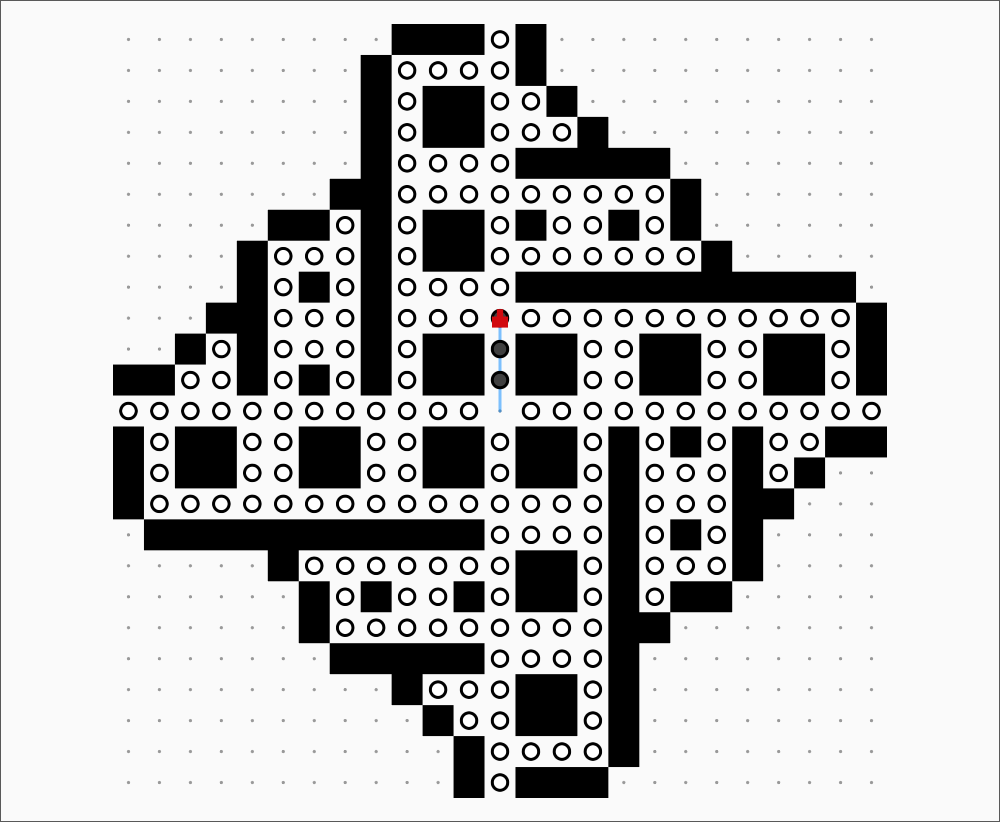
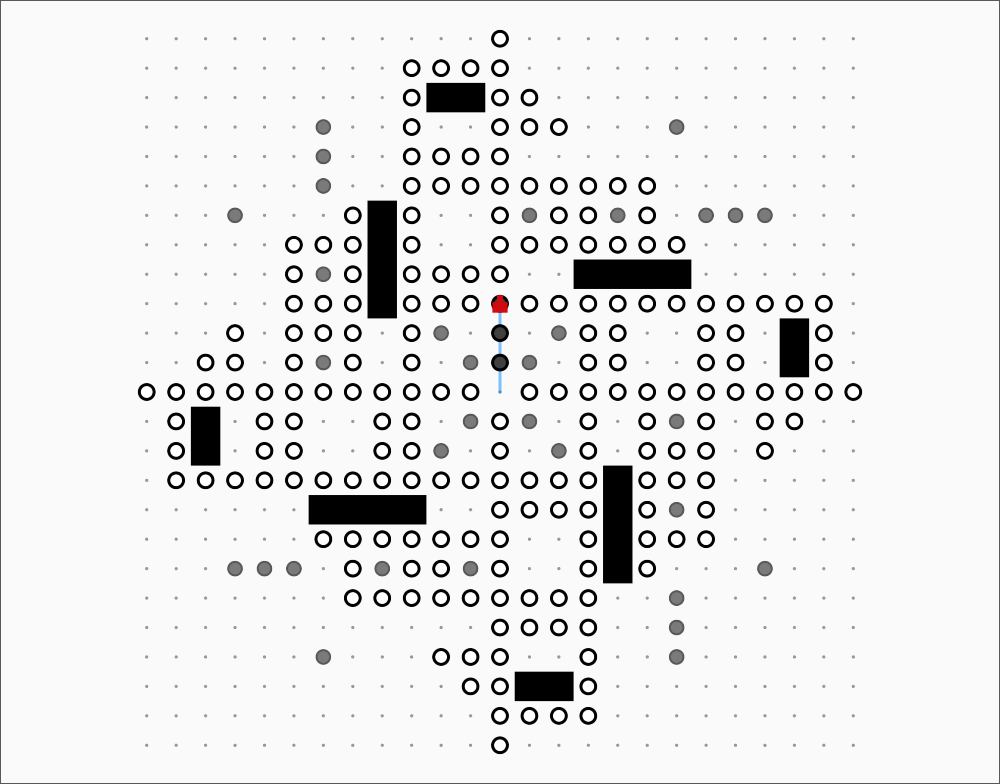
docs: refresh approved course screenshots in both languages
Recapture the same six puzzles and Modern/Classic comparison in the native app. Update Folding shells captions and distinguish current source builds from the 0.3.8 release.

AI-model: GPT-6

Changed region(s): [[0.093, 0.0306, 0.899, 0.9796]]

diff --git a/README.md b/README.md
@@ -20,12 +20,14 @@ and keep making your solution smaller.
 Start with **10 introductory lessons**, then explore **20 advanced challenges** in
 wall-assisted counting, parameter swaps, recursive returns, mutual recursion and
 composition. All **30 original puzzles** have English, Chinese and Japanese goals
-and two optional hints, with reference programs verified by the native and HOJ engines.
+and two optional hints. Reference programs are verified by the native engine;
+H language behavior is also audited against the HOJ reference implementation.
 The default open-source edition also includes **1,769 community problems**, preserving
 their IDs, authors and byte limits. The **App Store edition contains only the 30 originals**.
 The course uses continuous **L01–L30** numbers: ten introductory lessons followed
 by twenty advanced challenges. Only the first two fit a direct sequence of commands.
-L07 “Turning rose” and L08 “Tandem lanterns” are newly designed symmetric, walled boards.
+L04–L06 introduce reusable patterns; L11–L22 explore open geometric compositions.
+Broken wall landmarks and trap motifs guide the route while leaving alternative traversals.
 Display numbers are separate from internal save IDs; retired records remain importable.
 
 ## Download for Mac
@@ -34,12 +36,16 @@ Display numbers are separate from internal save IDs; retired records remain impo
 — macOS 14+, Apple Silicon and Intel. Open the DMG and drag Herbert to Applications;
 no Xcode is needed. Includes all 1,799 problems.
 
+Screenshots below show the latest source revision. The redesigned course and button
+fixes are available in [main-branch CI build artifacts](https://github.com/hugogu/herbert/actions/workflows/ci.yml);
+the 0.3.8 release contains the earlier course layouts.
+
 This preview is ad-hoc signed and **not Apple notarized**. macOS may block its first
 launch; follow [Apple's instructions](https://support.apple.com/en-us/102445) for
 **System Settings → Privacy & Security → Open Anyway** if you trust the download.
 See [checksums, installation and build details](docs/macos-distribution.md).
 
-[Explore the original curriculum](docs/original-course.md) · [Design and community study](docs/advanced-course-design.md) · [App Store build and device testing](docs/app-store.md)
+[Explore the original curriculum](docs/original-course.md) · [Open geometry design](docs/open-course-design.zh-CN.md) · [Community study](docs/advanced-course-design.md) · [App Store build and device testing](docs/app-store.md)
 
 ![Herbert original course in the English Mac app: Vaulted mosaic](docs/screenshots/en/course/course-mosaic.png)
 
@@ -60,19 +66,19 @@ the selected board, ready to paste as one message.
 ## Small programs, intricate places
 
 The six-chapter [original course](docs/original-course.md) grows from a single `s` to
-layered recursive systems. Walls reveal rooms, folds and rotational units while
-constraining the route. These are three of the new challenges; click a board for its
+layered recursive systems. Partial walls and trap ribbons reveal folds and rotational
+units while keeping multiple approaches open. These are three challenges; click a board for its
 full game screen:
 
-| L18 · Hinged rosette | L24 · Snowmelt seal | L30 · Astral cathedral |
+| L18 · Folding shells | L24 · Snowmelt seal | L30 · Astral cathedral |
 | --- | --- | --- |
-| [![Hinged rosette board with four walled spiral arms](docs/screenshots/en/course/course-rosette-board.png)](docs/screenshots/en/course/course-rosette.png) | [![Snowmelt seal board with recursive folds and four trap caps](docs/screenshots/en/course/course-seal-board.png)](docs/screenshots/en/course/course-seal.png) | [![Astral cathedral board with branching square courtyards](docs/screenshots/en/course/course-cathedral-board.png)](docs/screenshots/en/course/course-cathedral.png) |
-| Recursive return · ≤ 29 bytes | Selective instruction expansion · ≤ 34 bytes | Chiral branching + composition · ≤ 56 bytes |
+| [![Folding shells board with four recursive hooks and broken wall landmarks](docs/screenshots/en/course/course-rosette-board.png)](docs/screenshots/en/course/course-rosette.png) | [![Snowmelt seal board with recursive folds, wall brackets and trap accents](docs/screenshots/en/course/course-seal-board.png)](docs/screenshots/en/course/course-seal.png) | [![Astral cathedral board with branching square courtyards](docs/screenshots/en/course/course-cathedral-board.png)](docs/screenshots/en/course/course-cathedral.png) |
+| Recursive return · ≤ 33 bytes | Selective instruction expansion · ≤ 34 bytes | Chiral branching + composition · ≤ 56 bytes |
 
 *These original puzzles and their screenshots are MIT licensed. Budgets are verified
 achievable, not proven minima. Our [community study and design notes](docs/advanced-course-design.md)
 explain the progression and the simple-loop shortcuts removed during design.
-The course is included in the Mac preview.*
+The redesigned course is available in the latest main-branch builds.*
 
 | L07 · Turning rose | L08 · Tandem lanterns |
 | --- | --- |

diff --git a/CHANGELOG.md b/CHANGELOG.md
@@ -5,10 +5,12 @@ save or API formats through documented migrations.
 
 ## Unreleased
 
+- Set explicit foreground colors for primary and secondary actions across iOS and macOS, including prompt copying, sharing and progress transfer. Shorten backup button labels to Export / Import in all three languages.
+
 - Redesign L11–L22 as distinct open geometric puzzles, with local wall stops, islands and trap accents instead of enclosing the reference route. Open L10 and retain the target geometry and starting positions of L23–L30.
 - Verify alternative budget-compliant traversals for L10–L23, including counted returns, inside-out diamonds and a grid sweep alongside recursive subdivision. Preserve retired completions and historical match snapshots using fresh internal IDs for changed boards.
 - Enrich L04–L06 and L10–L30 with authored broken brackets and trap ribbons: each obstacle type uses 15–30% of the enclosing-border cell count. Rebuild L04–L06 as Sunlit courtyard, Diamond stair and Growing spiral, with localized teaching hints and protected legacy saves.
-- Add an offline before/after board review generator. README screenshots await design review.
+- Add an offline before/after board review generator. Refresh English and Chinese native app screenshots using the same six selected course puzzles after design approval.
 
 ## [0.3.8] - 2026-10-09
 

diff --git a/docs/open-course-design.zh-CN.md b/docs/open-course-design.zh-CN.md
@@ -1,6 +1,6 @@
 # 开放几何关卡改版
 
-本次重点重构 L11–L22。L10 保留目标，打开围墙；L23–L30 保留目标位置和机器人起点、朝向，只调整墙和陷阱。L04–L06 新增「晴光庭院」「菱形阶梯」「生长螺旋」，保留数值计步、通用重复器、指令增长的递进顺序。L01–L03、L07–L09 不变。README 截图等玩家确认后再更新。
+本次重点重构 L11–L22。L10 保留目标，打开围墙；L23–L30 保留目标位置和机器人起点、朝向，只调整墙和陷阱。L04–L06 新增「晴光庭院」「菱形阶梯」「生长螺旋」，保留数值计步、通用重复器、指令增长的递进顺序。L01–L03、L07–L09 不变。本轮设计已确认，README 中英文截图沿用原来的选题并重新截取。
 
 ## 设计原则
 
